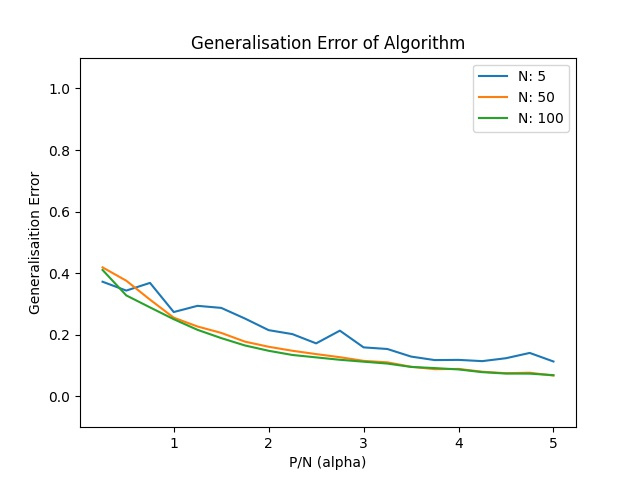
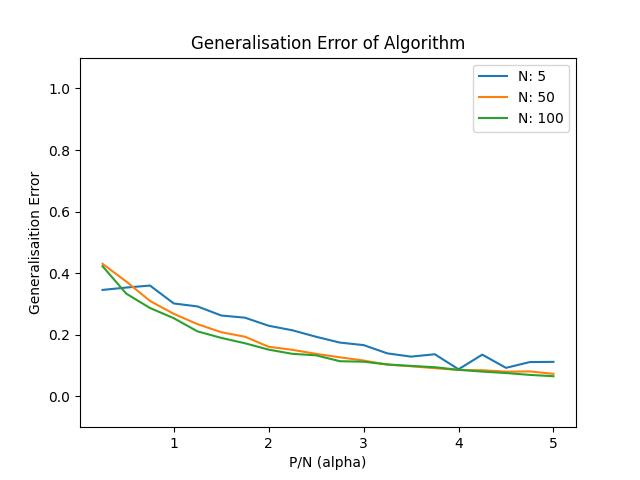
added atability plot

Changed region(s): [[0.1562, 0.5312, 0.875, 0.8125]]

diff --git a/A2/main.py b/A2/main.py
@@ -54,7 +54,7 @@ def train(x, y, max_epochs):
         if stopping_criterion(prev_stability, k[i]):
             break
         prev_stability = k[i]
-    return w
+    return w, k
 
 def make_plot(x, ys, save=False, title='Generalisation Error of Algorithm', label_desc = 'N: '):
     plt.figure()
@@ -73,6 +73,21 @@ def calc_generalisation_error(w, w_teacher):
     calc = np.dot(w, w_teacher)/ (np.linalg.norm(w) * np.linalg.norm(w_teacher))
     return 1 / math.pi * np.arccos(calc)
 
+def plot_stabilities(stabilities, title='Distribution of stabilities', save= False):
+    hist_arr = []
+    for ks in stabilities:
+        for k in ks:
+            hist_arr.append(k[0])
+    plt.figure()
+    plt.title(title)
+    plt.xlabel('K, Distance from the hyperplane')
+    plt.ylabel('Amount of data points')
+    #plt.legend()
+    plt.hist(hist_arr, bins=30, range=(0, 20))
+    if save:
+        plt.savefig(f'plots/A2_plots/{title}.jpg')
+    plt.show()
+
 def main():
     total_datasets = 20
     all_errors = {}
@@ -80,19 +95,24 @@ def main():
     Ns = [5, 50, 100]
     epoch_sizes = [300]
     alphas = np.arange(0.25, 5.01, 0.25)
+    
     for max_epochs in tqdm(epoch_sizes, desc='running different sizes of N', leave=False):
         for N in tqdm(Ns, desc='running different sizes of N', leave=False):
             errors = []
+            stabilities = []
             for alpha in tqdm(alphas, desc='running different alphas', leave=False):
                 P = int(alpha * N)
                 generalisation = 0
                 for n in tqdm(range(0, total_datasets), desc='training perceptron on different datasets', leave=False):
                     x_data, y_data, w_teacher = generate_random_data(P, N)
-                    w_max = train(x_data, y_data, max_epochs)
+                    w_max, k = train(x_data, y_data, max_epochs)
                     generalisation += calc_generalisation_error(w_max, w_teacher)
+                    if alpha == 5:
+                        stabilities.append(k)
                 average_generalisation_error = generalisation / total_datasets
                 errors.append(average_generalisation_error)
             all_errors[N] = errors
+    plot_stabilities(stabilities, save=True)
     make_plot(alphas, all_errors, save=True)
 
 
